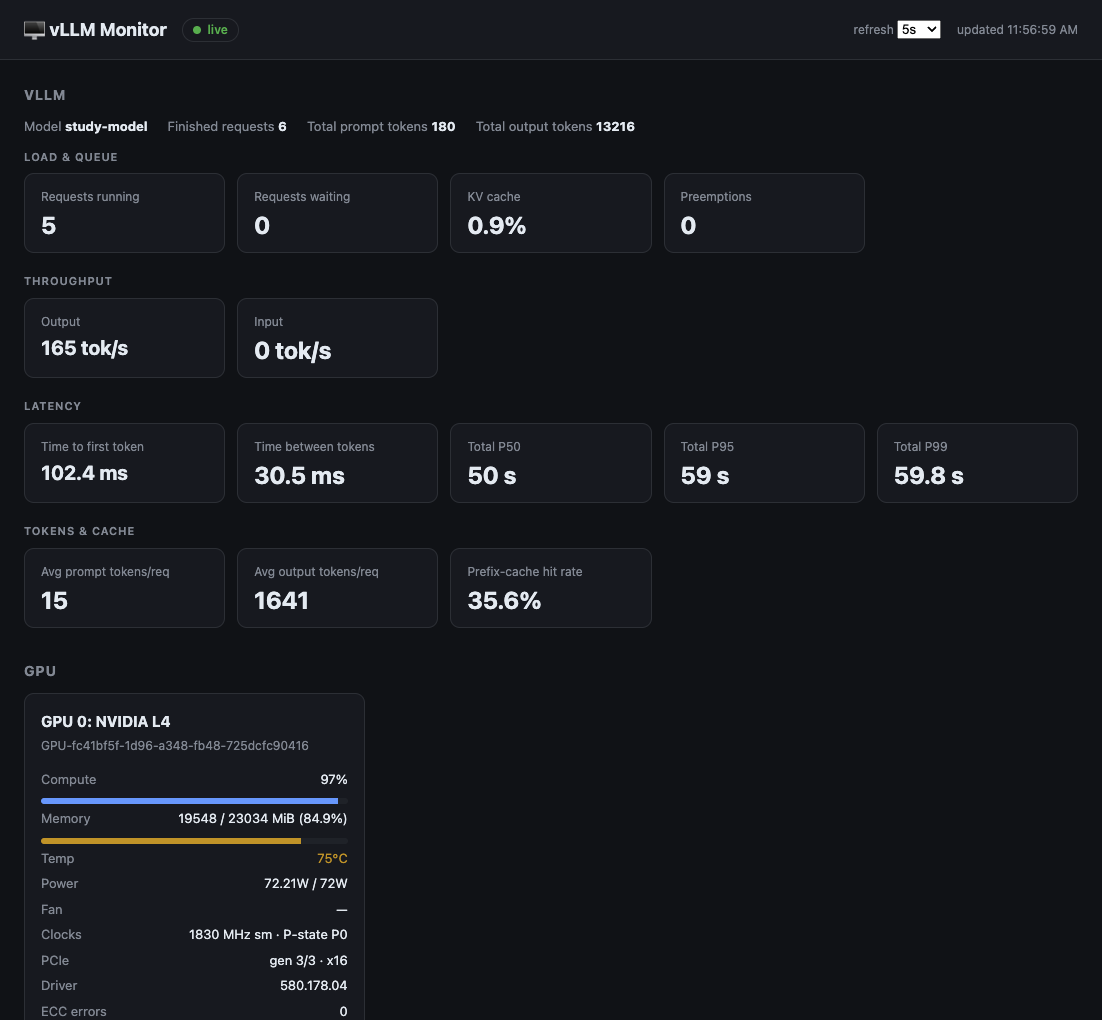
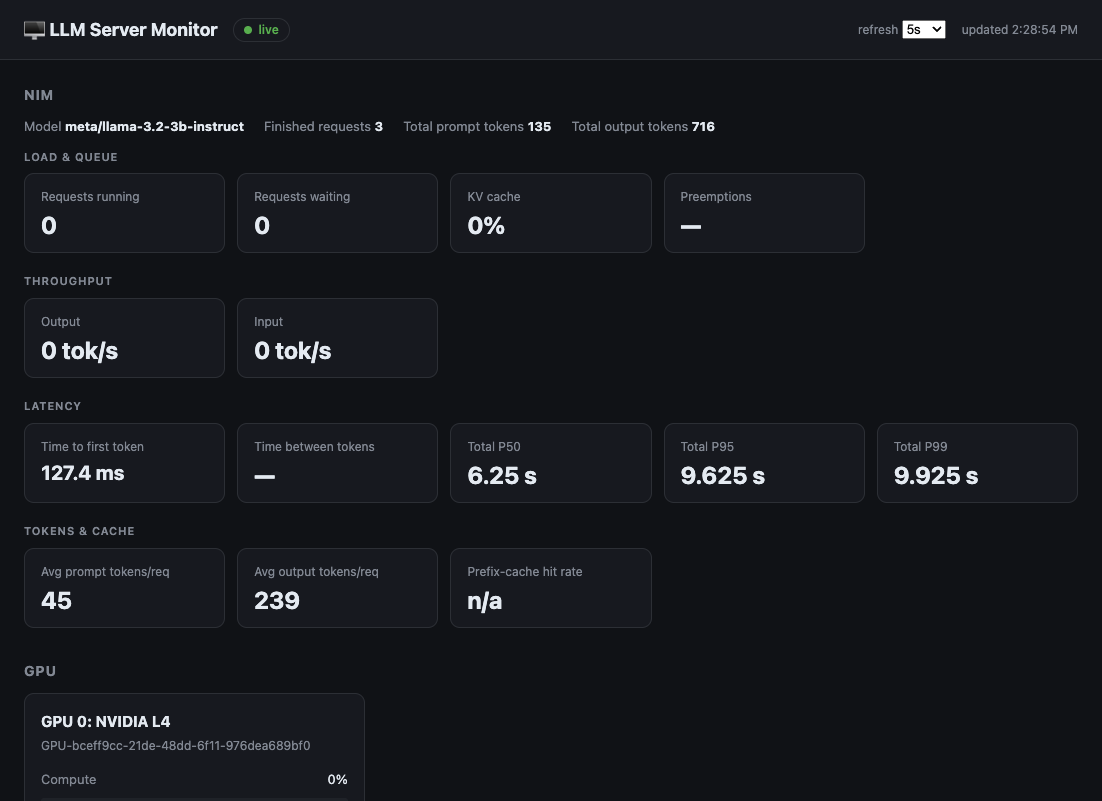
Add NVIDIA NIM support; auto-detect engine; rename to LLM Server Monitor
- Agent: prefix-agnostic metric resolution, dual metrics URL (/metrics and
  /v1/metrics), KV-cache fallback (gpu_cache_usage_perc), prefer the running
  inference container, and expose a detected engine (NIM/vLLM/TensorRT-LLM/TGI/SGLang)
- Dashboard: dynamic section labels from the detected engine, renamed app/page title
- README: retitle, document vLLM + NIM auto-detection, refresh screenshot

diff --git a/dashboard/static/index.html b/dashboard/static/index.html
@@ -3,7 +3,7 @@
 <head>
   <meta charset="UTF-8" />
   <meta name="viewport" content="width=device-width, initial-scale=1.0" />
-  <title>vLLM Monitor</title>
+  <title>LLM Server Monitor</title>
   <style>
     :root {
       --bg: #0d1117; --panel: #161b22; --border: #30363d;
@@ -64,7 +64,7 @@
 </head>
 <body>
   <header>
-    <h1>🖥 vLLM Monitor</h1>
+    <h1>🖥 LLM Server Monitor</h1>
     <span id="conn" class="pill muted"><span class="dot"></span>connecting…</span>
     <div class="spacer"></div>
     <label class="meta">refresh
@@ -82,7 +82,7 @@
     <div id="error" class="error" style="display:none"></div>
 
     <section>
-      <h2>vLLM</h2>
+      <h2 id="vllm-title">vLLM</h2>
       <div id="vllm-model" class="daemon-stats"></div>
       <div id="vllm"></div>
       <div id="vllm-empty" class="muted"></div>
@@ -113,7 +113,7 @@
     </section>
 
     <section>
-      <h2>vLLM Configuration</h2>
+      <h2 id="vcfg-title">Configuration</h2>
       <div id="vcfg-runtime" class="daemon-stats"></div>
       <div id="vcfg" class="grid" style="grid-template-columns: 1fr;"></div>
       <div id="vcfg-empty" class="muted"></div>
@@ -370,6 +370,9 @@
         $("error").style.display = "none";
         setConn("ok", "live");
         $("updated").textContent = "updated " + new Date().toLocaleTimeString();
+        const engine = (data.vllm_config && data.vllm_config.engine) || "LLM";
+        $("vllm-title").textContent = engine;
+        $("vcfg-title").textContent = engine + " Configuration";
         renderVllm(data.vllm);
         renderGpu(data.gpu);
         renderHost(data.host);

diff --git a/agent/app.py b/agent/app.py
@@ -334,8 +334,20 @@ def _parse_prometheus(text: str) -> dict[str, list[tuple[str, float]]]:
     return out
 
 
+def _resolve(parsed: dict, name: str):
+    """Look up a metric by canonical vLLM name, tolerating backends (e.g. NVIDIA
+    NIM) that emit the same metrics WITHOUT the `vllm:` prefix."""
+    if name in parsed:
+        return parsed[name]
+    if name.startswith("vllm:"):
+        bare = name[len("vllm:"):]
+        if bare in parsed:
+            return parsed[bare]
+    return None
+
+
 def _sum_metric(parsed: dict, name: str) -> float | None:
-    series = parsed.get(name)
+    series = _resolve(parsed, name)
     if not series:
         return None
     return sum(v for _, v in series)
@@ -345,7 +357,7 @@ def _histogram_quantile(parsed: dict, name: str, q: float) -> float | None:
     """Estimate a quantile from Prometheus histogram buckets (like PromQL
     histogram_quantile). Aggregates bucket counts across label sets so it works
     with multiple engines/models."""
-    series = parsed.get(name + "_bucket")
+    series = _resolve(parsed, name + "_bucket")
     if not series:
         return None
     agg: dict[float, float] = {}
@@ -379,17 +391,39 @@ def _histogram_quantile(parsed: dict, name: str, q: float) -> float | None:
 _vllm_prev: dict[str, float] = {}
 
 
-def collect_vllm() -> dict[str, Any]:
-    try:
-        req = urllib.request.Request(VLLM_METRICS_URL, headers={"Accept": "text/plain"})
-        with urllib.request.urlopen(req, timeout=5) as resp:
-            text = resp.read().decode("utf-8", "replace")
-    except Exception as exc:  # noqa: BLE001
-        return {"ok": False, "error": f"could not scrape {VLLM_METRICS_URL}: {exc}"}
+def _vllm_metric_urls() -> list[str]:
+    """Configured URL plus the alternate path, so we auto-detect both vLLM
+    (`/metrics`) and NVIDIA NIM (`/v1/metrics`) without reconfiguration."""
+    urls = [VLLM_METRICS_URL]
+    if VLLM_METRICS_URL.endswith("/v1/metrics"):
+        urls.append(VLLM_METRICS_URL[: -len("/v1/metrics")] + "/metrics")
+    elif VLLM_METRICS_URL.endswith("/metrics"):
+        urls.append(VLLM_METRICS_URL[: -len("/metrics")] + "/v1/metrics")
+    return urls
 
-    parsed = _parse_prometheus(text)
-    if not parsed:
-        return {"ok": False, "error": "no vLLM metrics found at endpoint"}
+
+def collect_vllm() -> dict[str, Any]:
+    parsed = None
+    last_err = None
+    for url in _vllm_metric_urls():
+        try:
+            req = urllib.request.Request(url, headers={"Accept": "text/plain"})
+            with urllib.request.urlopen(req, timeout=5) as resp:
+                text = resp.read().decode("utf-8", "replace")
+        except Exception as exc:  # noqa: BLE001
+            last_err = f"could not scrape {url}: {exc}"
+            continue
+        candidate = _parse_prometheus(text)
+        # Accept the endpoint only if it actually carries serving metrics
+        # (prefix-agnostic), so a 404 body or wrong port is rejected.
+        if _resolve(candidate, "vllm:num_requests_running") is not None or \
+           _resolve(candidate, "vllm:generation_tokens_total") is not None:
+            parsed = candidate
+            break
+        last_err = f"no vLLM/NIM serving metrics at {url}"
+
+    if parsed is None:
+        return {"ok": False, "error": last_err or "no metrics endpoint reachable"}
 
     # Model name from any series that carries the label.
     model = None
@@ -431,7 +465,10 @@ def collect_vllm() -> dict[str, Any]:
         v = _histogram_quantile(parsed, hist, q)
         return round(v, nd) if v is not None else None
 
+    # vLLM: kv_cache_usage_perc; NVIDIA NIM: gpu_cache_usage_perc.
     kv = _sum_metric(parsed, "vllm:kv_cache_usage_perc")
+    if kv is None:
+        kv = _sum_metric(parsed, "gpu_cache_usage_perc")
 
     # Prefix-cache hit rate (only meaningful when prefix caching is enabled).
     pc_hits = _sum_metric(parsed, "vllm:prefix_cache_hits_total")
@@ -487,18 +524,29 @@ def collect_vllm_config() -> dict[str, Any]:
         return {"ok": False, "error": "docker SDK not available"}
     try:
         client = get_docker_client()
+        # Known inference-server markers (vLLM, NVIDIA NIM, TensorRT-LLM, TGI, SGLang).
+        patterns = ("vllm", "nim", "nvcr.io/nim", "tensorrt", "trt-llm", "tgi", "sglang")
+
+        def looks_like_server(c) -> bool:
+            if "monitor" in c.name.lower():
+                return False  # never match our own agent
+            img = (c.image.tags[0] if c.image.tags else "").lower()
+            return any(p in img or p in c.name.lower() for p in patterns)
+
+        all_containers = client.containers.list(all=True)
         container = None
-        try:
-            container = client.containers.get(VLLM_CONTAINER)
-        except Exception:  # noqa: BLE001
-            # Fall back to any container whose image/name mentions vllm.
-            for c in client.containers.list(all=True):
-                img = c.image.tags[0] if c.image.tags else ""
-                if "vllm" in img.lower() or "vllm" in c.name.lower():
-                    container = c
-                    break
+        # Prefer a *running* server (so a stopped vllm doesn't shadow a live nim).
+        running = [c for c in all_containers if c.status == "running" and looks_like_server(c)]
+        if running:
+            container = running[0]
+        else:
+            try:
+                container = client.containers.get(VLLM_CONTAINER)
+            except Exception:  # noqa: BLE001
+                matches = [c for c in all_containers if looks_like_server(c)]
+                container = matches[0] if matches else None
         if container is None:
-            return {"ok": False, "error": f"container '{VLLM_CONTAINER}' not found"}
+            return {"ok": False, "error": f"no inference container found (looked for {VLLM_CONTAINER} / nim / vllm / …)"}
 
         attrs = container.attrs
         cfg = attrs.get("Config", {})
@@ -547,8 +595,26 @@ def collect_vllm_config() -> dict[str, Any]:
             src = m.get("Name") or m.get("Source")
             mounts.append({"source": src, "dest": m.get("Destination"), "type": m.get("Type")})
 
+        # Identify the serving engine from the container image/name so the UI
+        # can label itself (NIM vs vLLM vs …) without a manual switch.
+        img_l = (cfg.get("Image") or "").lower()
+        name_l = container.name.lower()
+        if "nvcr.io/nim" in img_l or "nim" in name_l:
+            engine = "NIM"
+        elif "vllm" in img_l or "vllm" in name_l:
+            engine = "vLLM"
+        elif "tensorrt" in img_l or "trt-llm" in img_l or "triton" in img_l:
+            engine = "TensorRT-LLM"
+        elif "text-generation-inference" in img_l or "/tgi" in img_l:
+            engine = "TGI"
+        elif "sglang" in img_l:
+            engine = "SGLang"
+        else:
+            engine = "LLM"
+
         return {
             "ok": True,
+            "engine": engine,
             "container": container.name,
             "image": cfg.get("Image"),
             "runtime": host.get("Runtime"),

diff --git a/README.md b/README.md
@@ -1,10 +1,13 @@
-# vLLM Monitor
+# LLM Server Monitor
 
-**vLLM Monitor is a lightweight, self-hosted observability tool for a GPU server
-running [vLLM](https://github.com/vllm-project/vllm) in Docker.** It gives you a
-single pane of glass over the whole inference stack — the model server, the GPU,
-the containers, and the host machine — without the weight of a full Prometheus +
-Grafana deployment.
+**LLM Server Monitor is a lightweight, self-hosted observability tool for a GPU
+server running an LLM inference engine in Docker — [vLLM](https://github.com/vllm-project/vllm)
+or [NVIDIA NIM](https://developer.nvidia.com/nim).** It gives you a single pane of
+glass over the whole inference stack — the model server, the GPU, the containers,
+and the host machine — without the weight of a full Prometheus + Grafana deployment.
+
+The engine is **auto-detected**: point it at a box running vLLM or NIM and the
+dashboard labels itself accordingly (both expose the same vLLM-family metrics).
 
 Running an LLM on a cloud GPU instance leaves you with blind spots: Is the server
 keeping up, or is a request queue forming? Is the GPU actually busy, or silently
@@ -24,8 +27,8 @@ the whole thing is a couple hundred lines of Python plus a static HTML page.
 
 **What it shows, in one dashboard:**
 
-- **vLLM serving metrics** — throughput, latency percentiles, queue depth, KV-cache, prefix-cache hit rate
-- **vLLM launch configuration** — the exact engine args and container runtime flags
+- **Serving metrics** — throughput, latency percentiles, queue depth, KV-cache, prefix-cache hit rate
+- **Launch configuration** — the serving container's engine args and runtime flags
 - **GPU** — utilization, memory, temperature, power, clocks, PCIe, throttle reasons, ECC, per-process usage
 - **Host** — CPU, load, RAM/swap, disk, network, uptime
 - **Docker** — container health/status plus per-container CPU/memory
@@ -254,8 +257,8 @@ docker restart vllm-monitor-agent
 |---|---|---|---|
 | `AGENT_TOKEN` | agent + dashboard | — (required) | Shared bearer secret |
 | `AGENT_URL` | dashboard | — (required) | `http://<instance-ip>:9100` |
-| `VLLM_METRICS_URL` | agent | `http://localhost:8000/metrics` | vLLM Prometheus endpoint |
-| `VLLM_CONTAINER` | agent | `vllm` | Container to inspect for config (falls back to any `vllm`-named image) |
+| `VLLM_METRICS_URL` | agent | `http://localhost:8000/metrics` | Serving-metrics endpoint. Auto-tries the alternate path too, so NIM's `/v1/metrics` works without changes. |
+| `VLLM_CONTAINER` | agent | `vllm` | Hint for the serving container to inspect. The agent prefers whichever inference container is actually *running* (vLLM, NIM, TensorRT-LLM, TGI, SGLang). |
 
 ---
 
